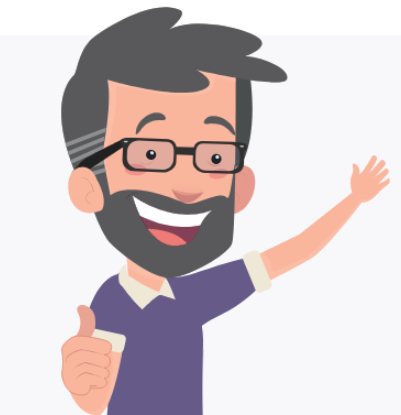
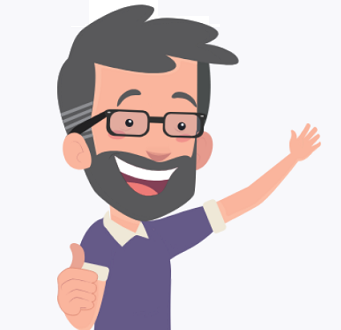
Agregando cambios de tamaño de imágenes, cambios

diff --git a/my-app/src/app/components/benefits/benefits.component.html b/my-app/src/app/components/benefits/benefits.component.html
@@ -1,9 +1,9 @@
 <div class="container" id="container">
-    <h1>¿Como, cuando y donde <span class="red-font">usar tu seguro?</span> </h1>
+    <h1>¿Cómo, cuándo y dónde <span class="red-font">usar tu seguro?</span> </h1>
     <div class="row ">
         <div class="col-md-4">
             <div class=" img-comousar">
-                <img src="assets/img/comousarimg.PNG" alt="">
+                <img src="assets/img/comousarimg.PNG" alt="como usar el seguro" class="img-benefits">
             </div>
             <div class="contenedor-modal">
                 <button type="button" class="  btn btn-danger btn-lg btn-responsive col align-self-center button1" data-toggle="modal" data-target="#miModal">Como usar</button>
@@ -26,8 +26,8 @@
             </div>
         </div>
         <div class="col-md-4">
-            <div class="img-responsive" >
-                <img src="assets/img/nocubreimg.PNG" alt="">
+            <div class="img-responsive">
+                <img src="assets/img/nocubreimg.PNG" alt="que no cubre el seguro" class="img-benefits" />
             </div>
             <div class="contenedor-modal">
                 <button type="button" class=" button1 btn btn-danger btn-lg btn-responsive col align-self-center" data-toggle="modal" data-target="#miModal">No cubre</button>
@@ -50,9 +50,9 @@
             </div>
         </div>
         <div class="col-md-4">
-          <div>
-              <img src="assets/img/pregfrecu.PNG" alt="">
-          </div>
+            <div>
+                <img src="assets/img/pregfrecu.PNG" alt="preguntas frecuentes" class="img-benefits" />
+            </div>
             <div class="contenedor-modal">
                 <button type="button" class=" button1 btn btn-danger btn-lg btn-responsive col align-self-center" data-toggle="modal" data-target="#miModal">Preguntas frecuentes</button>
             </div>

diff --git a/my-app/src/app/components/testimonies/testimonies.component.html b/my-app/src/app/components/testimonies/testimonies.component.html
@@ -5,10 +5,11 @@
             <iframe width="620" height="420" src="https://www.youtube.com/embed/ClbijnsgyHY" frameborder="0" allow="accelerometer; autoplay; encrypted-media; gyroscope; picture-in-picture" allowfullscreen></iframe>
         </div>
         <div class="col-4">
-            <p>Lorem ipsum dolor sit amet, consectetur adipiscing elit, sed do eiusmod tempor incididunt ut labore et dolore magna aliqua</p>
-            <button class="button1 ">Quiero proteger mi hogar</button>
+            <p>Cubrimos daños, robos o pérdidas que pueda sufrir tu hogar o lo que guardas en él.</p>
+            <p>El lugar donde vives siempre estará protegido con un <span class="red-font ">seguro a tu medida</span>.</p>
+            <p>Conoce la experiencia de nuestros clientes en el video</p>
+            <button class="button1">Quiero proteger mi hogar</button>
         </div>
-
     </div>
 </div>
 <hr>

diff --git a/my-app/src/app/components/plans/plans.component.html b/my-app/src/app/components/plans/plans.component.html
@@ -1,6 +1,6 @@
 <div id="container" class="container ">
     <div>
-        <h1 class="title">Elige<span class="red-font ">tu plan</span> </h1>
+        <h1 class="title">Elige<span class="red-font "> tu plan</span> </h1>
     </div>
     <div class="container  mrg margin-botton">
         <div class="row">

diff --git a/my-app/src/app/app.component.html b/my-app/src/app/app.component.html
@@ -1,7 +1,7 @@
 <app-nav></app-nav>
 <app-home></app-home>
-<app-plans></app-plans>
 <app-testimonies></app-testimonies>
+<app-plans></app-plans>
 <app-benefits></app-benefits>
 <router-outlet></router-outlet>
 <app-footer></app-footer>

diff --git a/my-app/src/app/components/benefits/benefits.component.css b/my-app/src/app/components/benefits/benefits.component.css
@@ -37,3 +37,7 @@ h1 {
     background-color: #f1444f;
     border-color: #f1444f;
 }
+
+.img-benefits {
+    width: 280px;
+}
